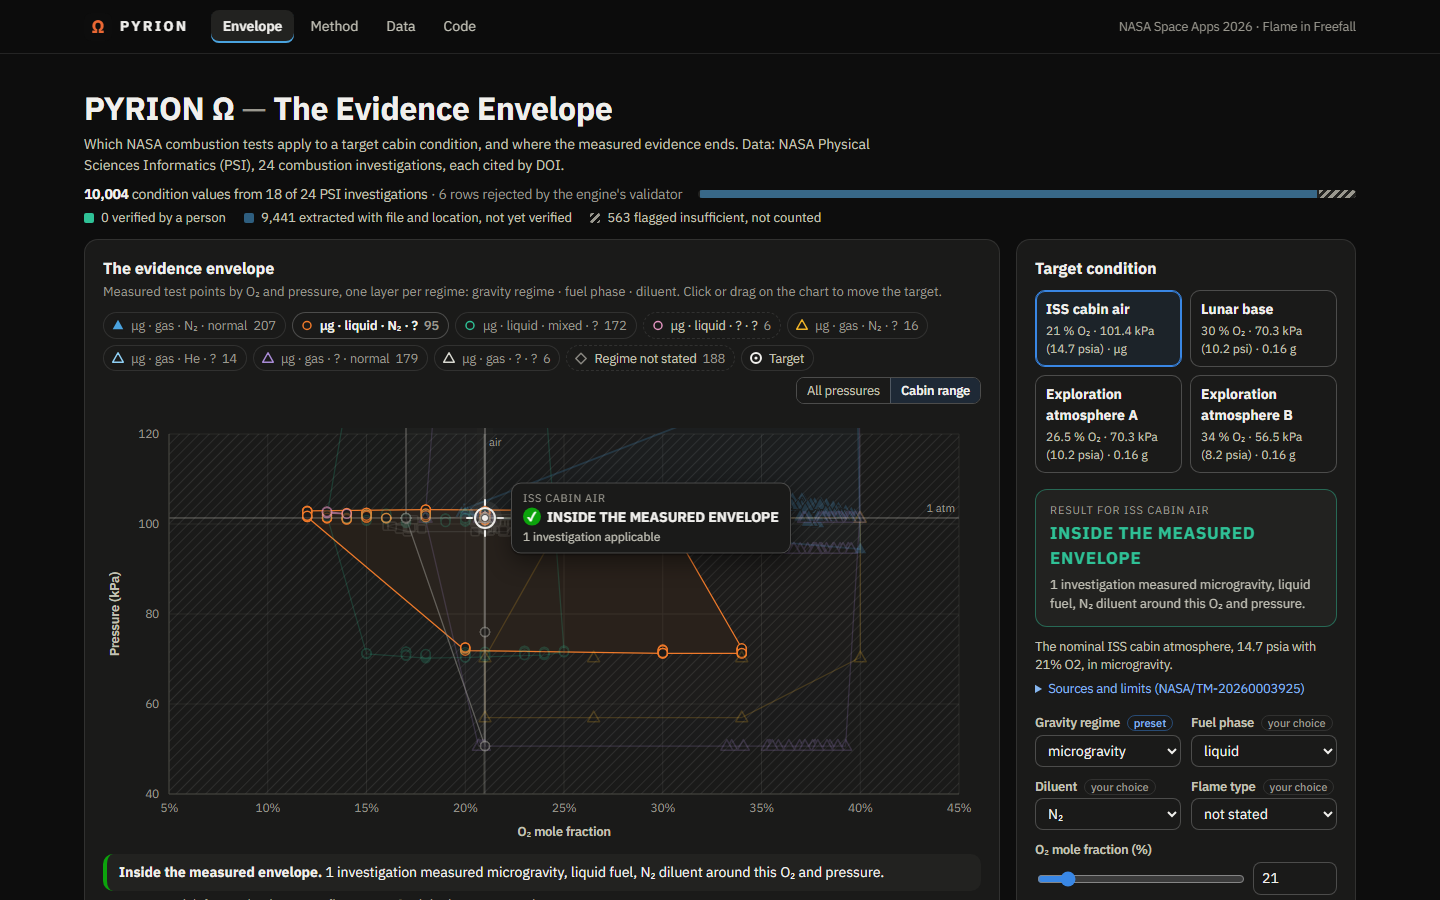
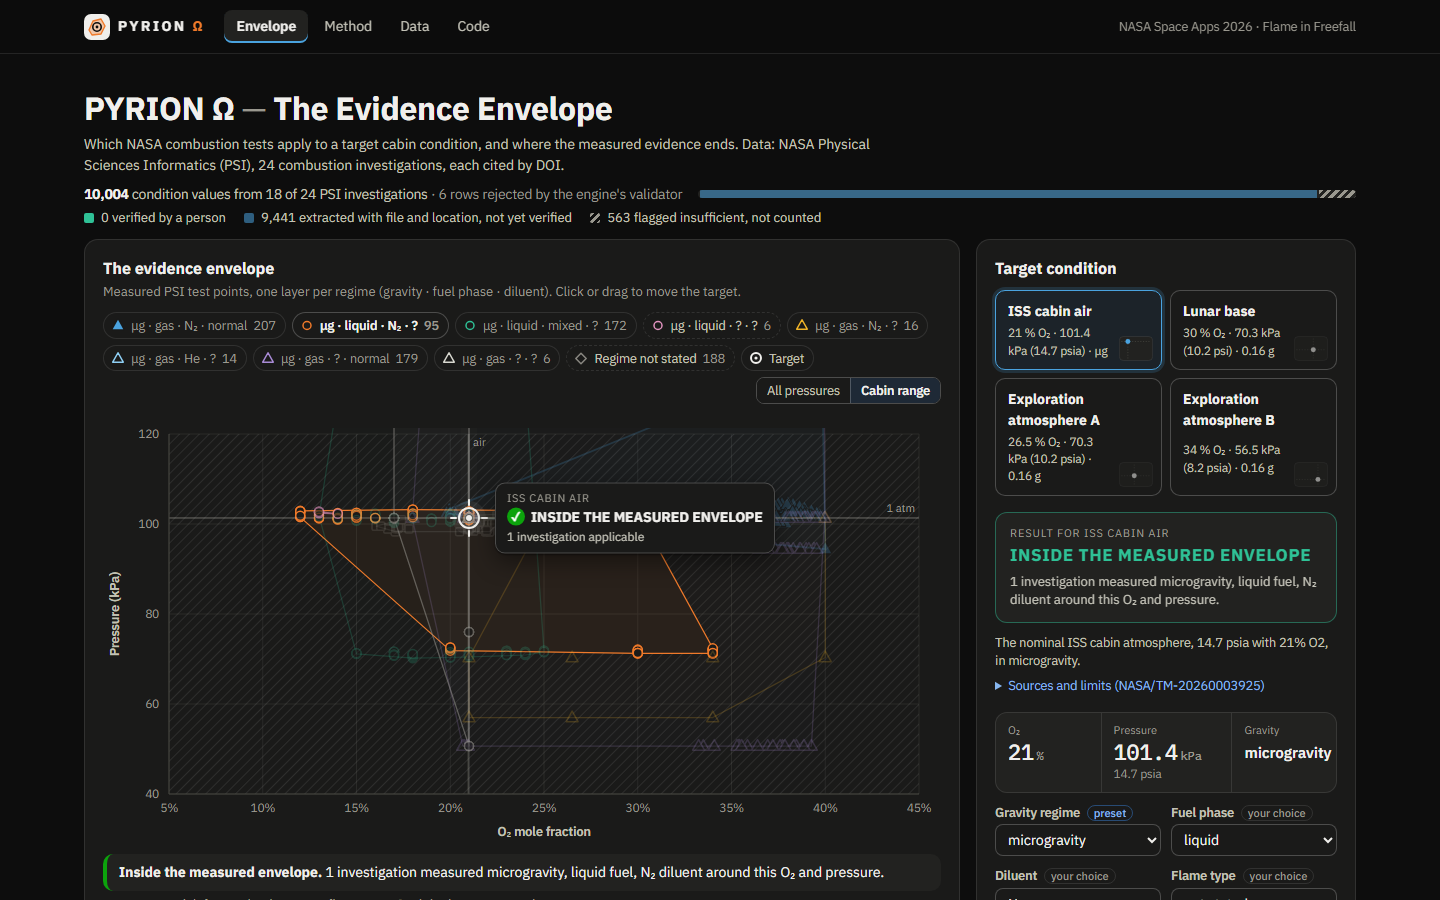
web: dark-mode brand mark, keep the target callout inside the chart

diff --git a/web/components/EnvelopeChart.tsx b/web/components/EnvelopeChart.tsx
@@ -196,7 +196,7 @@ function EnvelopeChart({ envelopes, colors, layerState, target, targetLabel, sta
 
   const tx = sx(target.o2);
   const ty = sy(target.pressure);
-  const CALLOUT_W = 230;
+  const CALLOUT_W = 290;
   const calloutSide =
     M.left + tx + 26 + CALLOUT_W <= width ? "right" : M.left + tx - 26 - CALLOUT_W >= 0 ? "left" : "below";
 

diff --git a/web/app/globals.css b/web/app/globals.css
@@ -1299,3 +1299,6 @@ input[type="range"] {
 .mark-dot { fill: var(--page); }
 .omega { color: var(--s2); letter-spacing: 0; }
 .sitenav-brand:hover .mark-hull { fill: color-mix(in srgb, var(--s2) 55%, transparent); }
+.mark-bg { fill: #0d0d0d; stroke: var(--border-strong); }
+.mark-ring { stroke: #f9f9f7; }
+.mark-dot { fill: #f9f9f7; }
